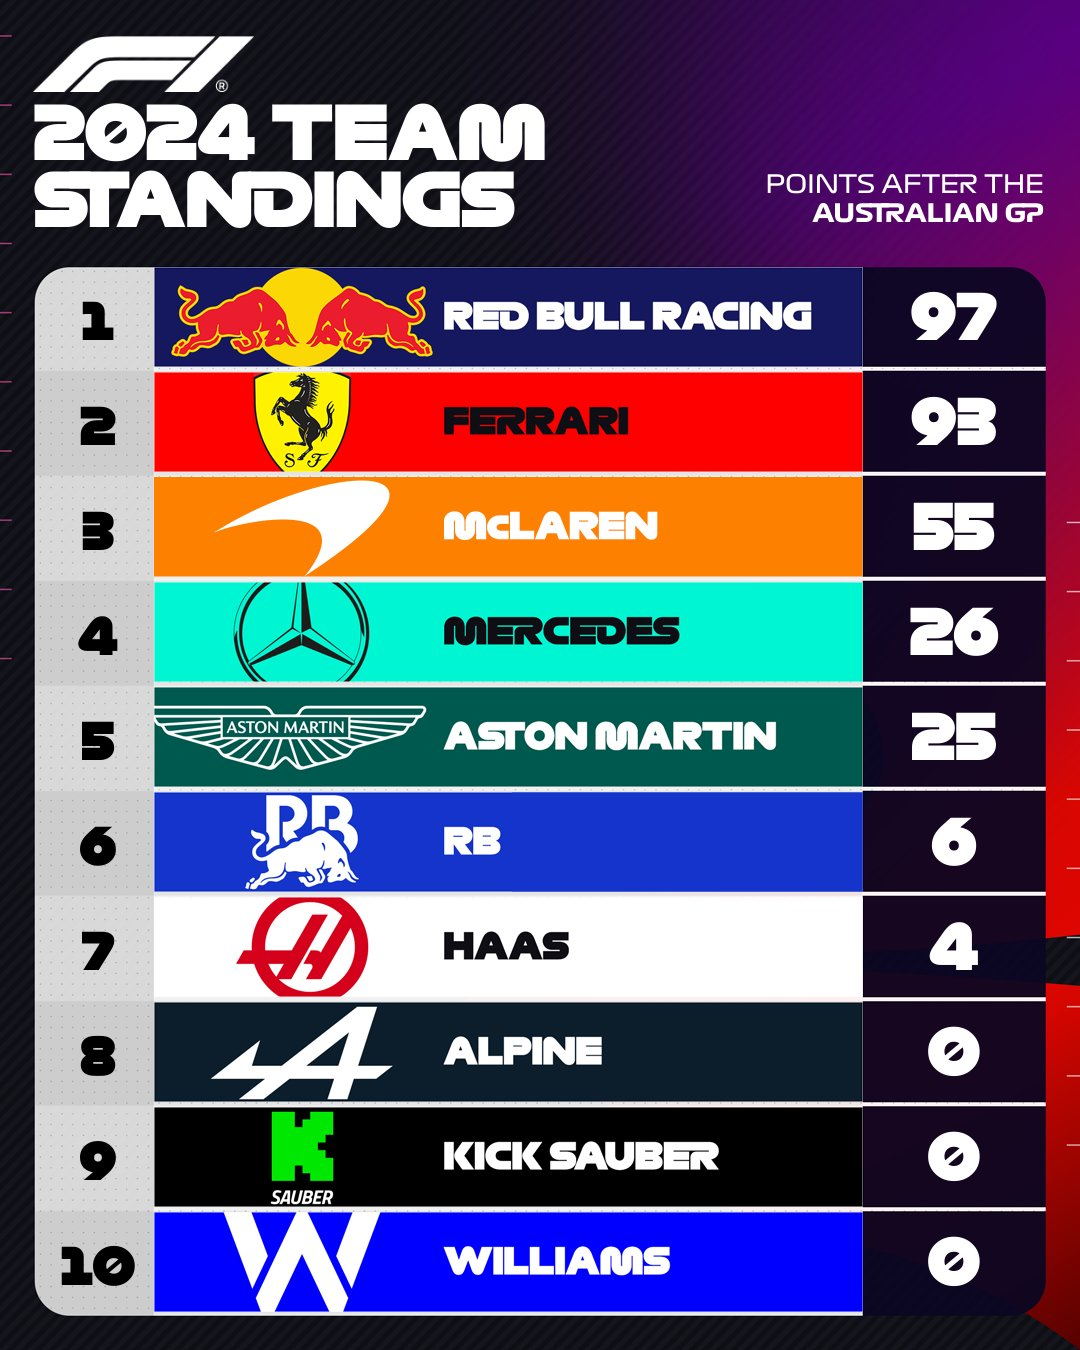
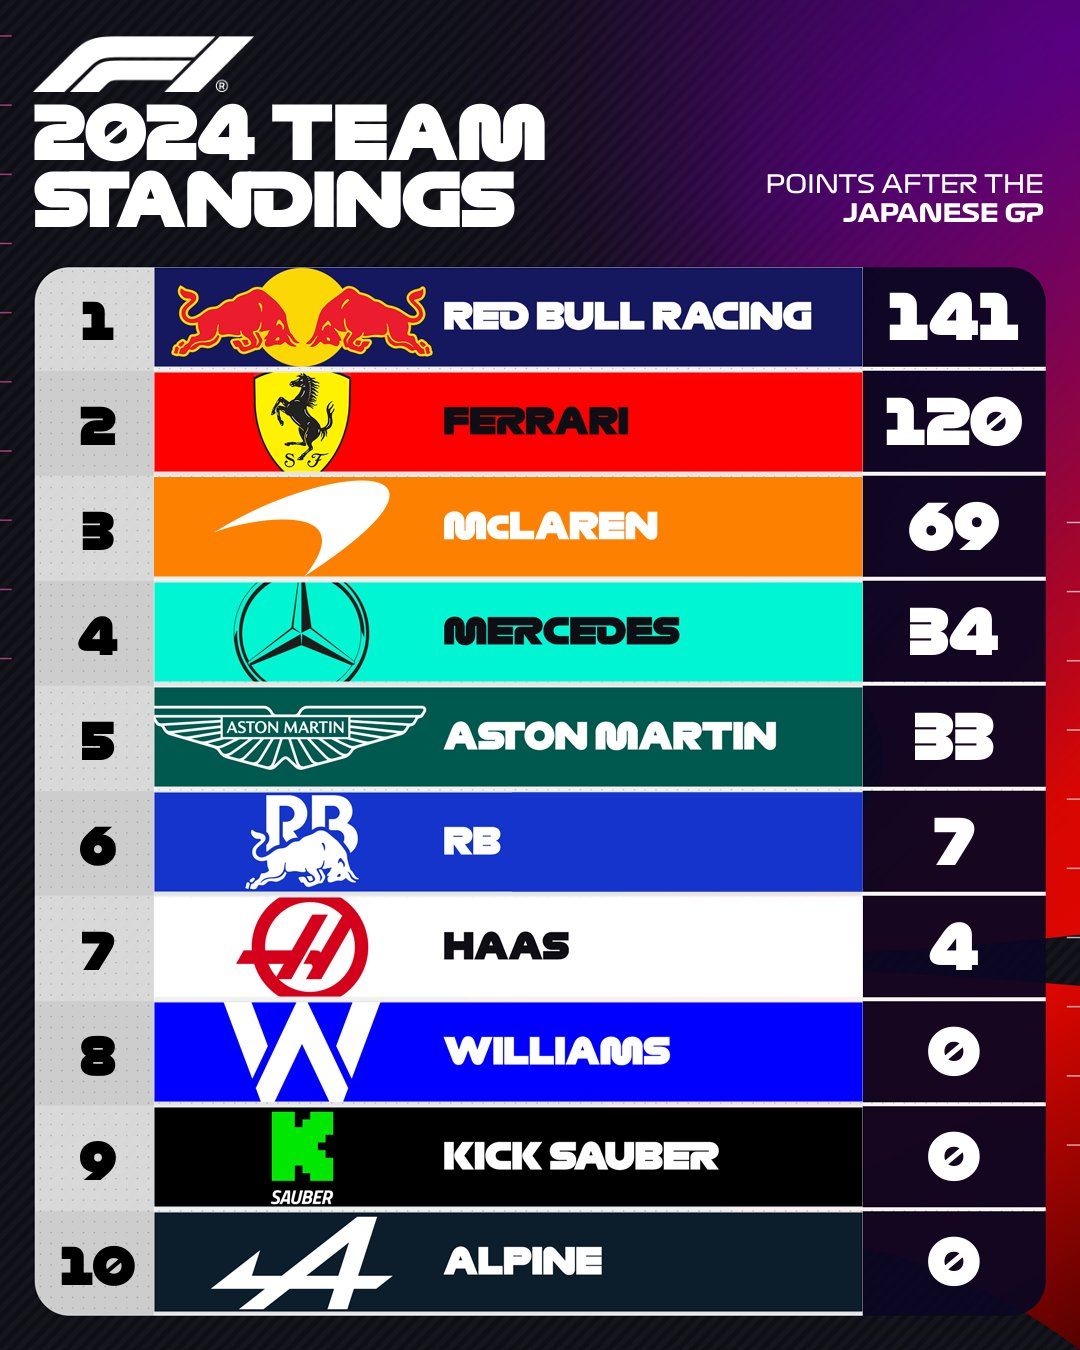
04072024

diff --git a/formulauno.html b/formulauno.html
@@ -106,6 +106,24 @@
 				</article>
 			</div>
 		</article>
+
+		<article class="news-article">
+			<h3>JAPANESE GP <br>
+				<small>7 ABR</small>
+			</h3>
+			<p>Red Bull domina JAPANESE GP con SAINZ completando el podio.</p>
+			<div class="position">
+				<h4 class="results-title">RESULTADOS</h4>
+				<!-- <span class="result-two">Day 2</span>
+				<span class="result-three">Day 3</span> -->
+			<!-- </div> -->
+			<!-- <div class="position"> -->
+				<article class="content-position">
+					<figure class="position-img"><img src="public/img/f1/japanpodio.jpg" alt="resultados"></figure>
+					<!-- <span class="close">X</span> -->
+				</article>
+			</div>
+		</article>
 		</section>
 		<hr>
 		<section>
@@ -188,6 +206,26 @@
 			</div>
 
 
+			<div class="news__content--susuka cc">
+				<h3>JAPANESE GP 2024</h3>
+				<div class="news__wrapper">
+					<figure class="news__items">
+						<img src="public/img/f1/susuka.jpg">
+						<figcaption class="news--descriptions">
+							<h4>
+								CLASIFICACIÓN
+							</h4>
+						</figcaption>
+					</figure>
+					<article class="news__img--content">
+						<!-- <span class="news__img--A"><img src="public/img/f1/practice.jfif" alt="practice"></span>
+						<span class="news__img--A"><img src="public/img/f1/secondpractice.jfif" alt="practice"></span> -->
+						<span class="news__img--A"><img src="public/img/f1/susukaQ.jpg" alt="practice"></span>
+					</article>
+				</div>
+			</div>
+
+
 		</section>
 		<hr>
 		<section class="standings">
@@ -250,6 +288,16 @@
 			<article class="res-contentA"><img src="public/img/f1/melbourneB.jpg" alt="resultados"></article> -->
 
 			<article class="res-contentA"><img src="public/img/f1/melbourneQ.jpg" alt="resultados"><span class="closeB">X</span></article>
+		</div>
+
+		<div class="susuka-img">
+			<article class="res-content"><img src="public/img/f1/susuka.jpg" alt="resultados"></article>
+
+			<!-- <article class="res-contentA"><img src="public/img/f1/melbourneA.jpg" alt="resultados"></article>
+
+			<article class="res-contentA"><img src="public/img/f1/melbourneB.jpg" alt="resultados"></article> -->
+
+			<article class="res-content"><img src="public/img/f1/susukaQ.jpg" alt="resultados"><span class="closeB">X</span></article>
 		</div>
 
 		

diff --git a/index.html b/index.html
@@ -62,8 +62,8 @@
 					<!-- </article>
 					<article> -->
 					<h3 class="title" id="fone">
-						<span class="primary">CARLOS SAINZ WINS IN AUSTRALIA! 🏁🏆</span>
-						<span class="secondary">AUSTRALIAN GP</span>
+						<span class="primary">!MAX VERSTAPPEN GANA EN SUZUKA! 🏁🏆</span>
+						<span class="secondary">JAPANESE GP</span>
 					</h3>
 					<!-- </article> -->
 					<article class="gallery-buttons">
@@ -117,10 +117,10 @@
 						<!-- </div> -->
 						<article class="news-article">
 							
-							<h3>AUSTRALIAN GP 
-								<p>24 MAR</p> 
+							<h3>JAPANESE GP 
+								<p>7 ABRIL</p> 
 							</h3>
-							<p>Ferrari domina AUSTRALIAN GP con Norris completando el podio.</p>
+							<p>Red Bull domina JAPANESE GP con SAINZ completando el podio.</p>
 							<div class="results">
 								<p class="result-one">RESULTADOS</p>
 								<!-- <span class="result-two">Day 2</span>
@@ -128,7 +128,7 @@
 							</div>
 							<div class="podio-content">
 								<figure class="podio">
-									<img src="public/img/f1/australiapodio.jpg">
+									<img src="public/img/f1/japanpodioB.jpg">
 								</figure>
 							</div>
 						</article>

diff --git a/public/js/fone.js b/public/js/fone.js
@@ -11,9 +11,11 @@ const closeA = document.querySelector(".closeA");
 const resulBah = document.querySelector(".news__content--bahrain");
 const resul = document.querySelector(".news__content");
 const resulA = document.querySelector(".news__content--australia");
+const resulS = document.querySelector(".news__content--susuka");
 const imagesBah = document.querySelector(".bahrain-img");
 const images = document.querySelector(".saudi-img");
 const imagesAus = document.querySelector(".australia-img");
+const imagesSu = document.querySelector(".susuka-img");
 
 function navButton(a) {
     a.addEventListener('click', () => {
@@ -48,6 +50,8 @@ showRes(resultC, resThree);
 showRes(resulBah, imagesBah);
 showRes(resul, images);
 showRes(resulA, imagesAus);
+showRes(resulS, imagesSu);
+
 
 
 
@@ -57,3 +61,4 @@ close(closeB[2], resThree);
 close(closeB[3], imagesBah);
 close(closeB[4], images);
 close(closeB[5], imagesAus);
+close(closeB[6], imagesSu);

diff --git a/public/css/fone.css b/public/css/fone.css
@@ -191,7 +191,8 @@ h1,h2,h3,h4,h5,h6 {
 	/*	border: 1px solid white;*/
 }
 
-.res-three, .saudi-img, .australia-img, .bahrain-img {
+.res-three, .saudi-img, .australia-img, .bahrain-img, 
+.susuka-img {
 	display: none;
 	position: fixed;
 	/*	scale: 1;*/

diff --git a/public/css/main.css b/public/css/main.css
@@ -39,7 +39,7 @@ a {
 }
 
 h1,h2,h3,h4,h5,h6 {
-	margin: 0;
+	margin: 10px;
 	padding: 10px;
 	text-align: center;
 }
